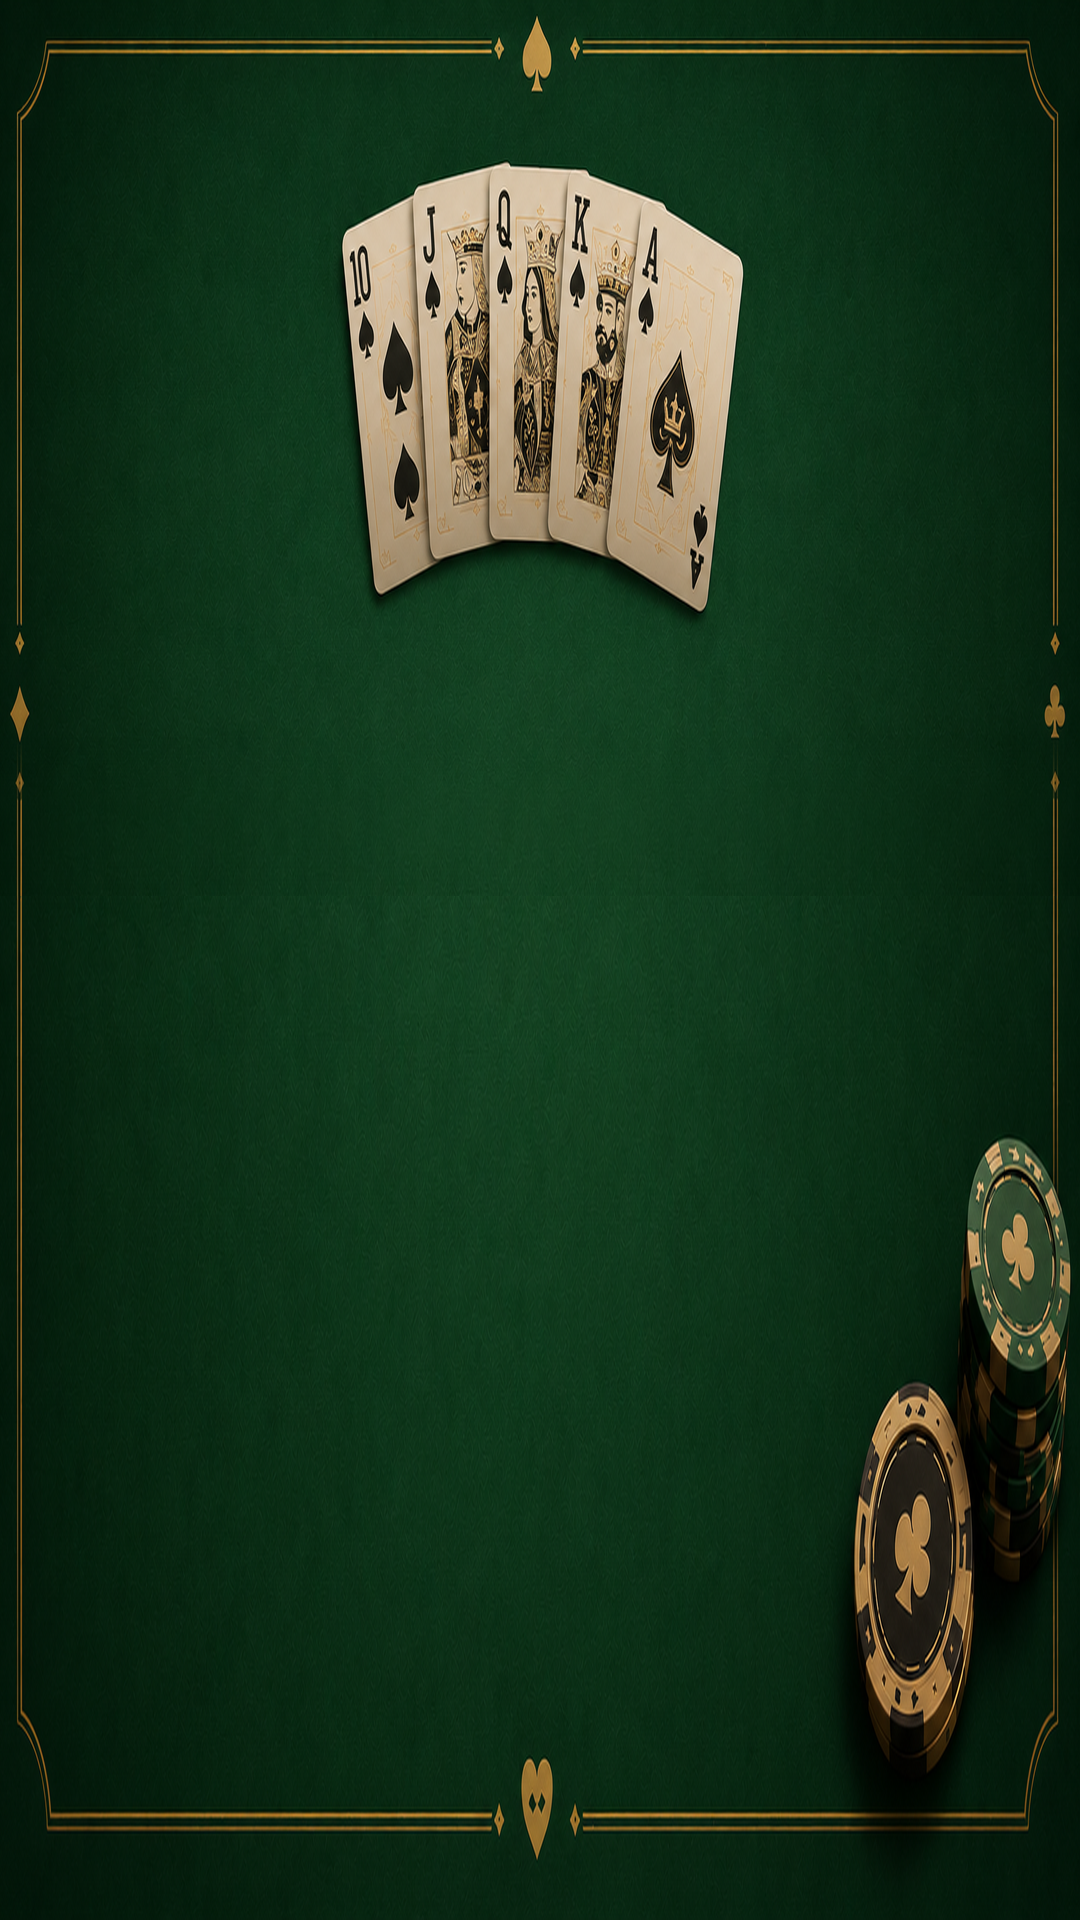
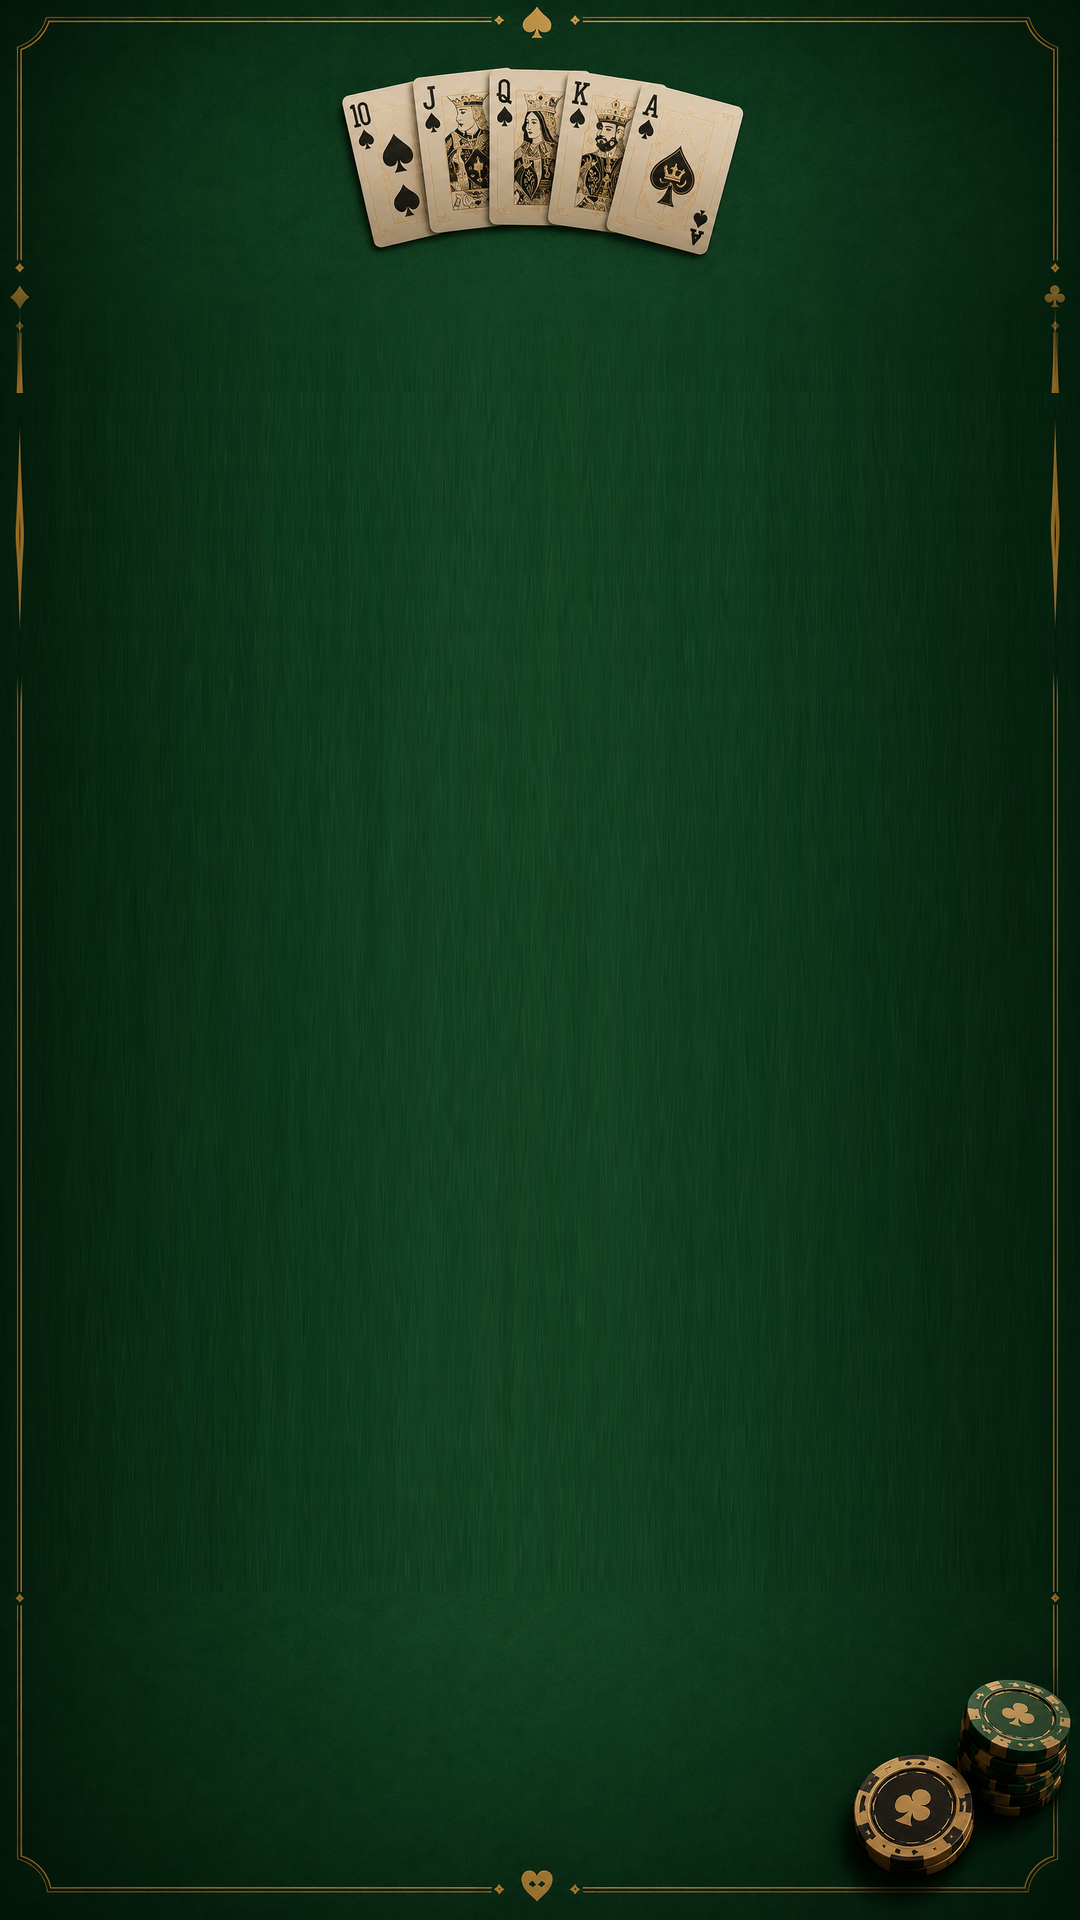
fix: organizer mobile bg v3 full-width border, remove orientation restriction
- Full-width equal-ratio scaling keeps border frame intact on both sides
- Remove orientation:portrait so landscape mobile also uses mobile image

Claude-Session: https://claude.ai/code/session_01PEjN44h7Gve3PSLEhiZJCR

diff --git a/poker/static/css/organizer/announcement.css b/poker/static/css/organizer/announcement.css
@@ -261,7 +261,7 @@ body {
 .modal-cancel-button:hover {
     background: rgba(255, 255, 255, 0.14);
 }
-@media (max-width: 768px) and (orientation: portrait) {
+@media (max-width: 768px) {
     body {
         background-image:
             linear-gradient(135deg, rgba(15,15,22,0.82), rgba(21,25,40,0.82), rgba(26,32,51,0.82)),

diff --git a/poker/static/css/organizer/dashboard.css b/poker/static/css/organizer/dashboard.css
@@ -293,7 +293,7 @@ body {
     }
 }
 
-@media (max-width: 768px) and (orientation: portrait) {
+@media (max-width: 768px) {
     body {
         background-image:
             linear-gradient(135deg, rgba(15,15,22,0.82), rgba(21,25,40,0.82), rgba(26,32,51,0.82)),

diff --git a/poker/static/css/organizer/game_log.css b/poker/static/css/organizer/game_log.css
@@ -451,7 +451,7 @@ body {
     }
 }
 
-@media (max-width: 768px) and (orientation: portrait) {
+@media (max-width: 768px) {
     body {
         background-image:
             linear-gradient(135deg, rgba(15,15,22,0.82), rgba(21,25,40,0.82), rgba(26,32,51,0.82)),

diff --git a/poker/static/css/organizer/game_management.css b/poker/static/css/organizer/game_management.css
@@ -990,7 +990,7 @@ body {
     }
 }
 
-@media (max-width: 768px) and (orientation: portrait) {
+@media (max-width: 768px) {
     body {
         background-image:
             linear-gradient(135deg, rgba(15,15,22,0.82), rgba(21,25,40,0.82), rgba(26,32,51,0.82)),

diff --git a/poker/static/css/organizer/invite_management.css b/poker/static/css/organizer/invite_management.css
@@ -219,7 +219,7 @@ body {
     }
 }
 
-@media (max-width: 768px) and (orientation: portrait) {
+@media (max-width: 768px) {
     body {
         background-image:
             linear-gradient(135deg, rgba(15,15,22,0.82), rgba(21,25,40,0.82), rgba(26,32,51,0.82)),

diff --git a/poker/static/css/user/change_password.css b/poker/static/css/user/change_password.css
@@ -156,7 +156,7 @@ body {
     }
 }
 
-@media (max-width: 768px) and (orientation: portrait) {
+@media (max-width: 768px) {
     body {
         background-image:
             linear-gradient(135deg, rgba(15,15,22,0.82), rgba(21,25,40,0.82), rgba(26,32,51,0.82)),

diff --git a/poker/static/css/user/dashboard.css b/poker/static/css/user/dashboard.css
@@ -243,7 +243,7 @@ body {
     }
 }
 
-@media (max-width: 768px) and (orientation: portrait) {
+@media (max-width: 768px) {
     body {
         background-image:
             linear-gradient(135deg, rgba(15,15,22,0.82), rgba(21,25,40,0.82), rgba(26,32,51,0.82)),

diff --git a/poker/static/css/user/game.css b/poker/static/css/user/game.css
@@ -525,7 +525,7 @@ body {
     }
 }
 
-@media (max-width: 768px) and (orientation: portrait) {
+@media (max-width: 768px) {
     body {
         background-image:
             linear-gradient(135deg, rgba(15,15,22,0.82), rgba(21,25,40,0.82), rgba(26,32,51,0.82)),

diff --git a/poker/static/css/user/game_log.css b/poker/static/css/user/game_log.css
@@ -394,7 +394,7 @@ body {
     }
 }
 
-@media (max-width: 768px) and (orientation: portrait) {
+@media (max-width: 768px) {
     body {
         background-image:
             linear-gradient(135deg, rgba(15,15,22,0.82), rgba(21,25,40,0.82), rgba(26,32,51,0.82)),

diff --git a/poker/static/css/organizer/member_management.css b/poker/static/css/organizer/member_management.css
@@ -66,7 +66,7 @@ body {
     }
 }
 
-@media (max-width: 768px) and (orientation: portrait) {
+@media (max-width: 768px) {
     body {
         background-image:
             linear-gradient(135deg, rgba(15,15,22,0.82), rgba(21,25,40,0.82), rgba(26,32,51,0.82)),

diff --git a/poker/static/css/organizer/change_password.css b/poker/static/css/organizer/change_password.css
@@ -276,7 +276,7 @@ body {
 
 }
 
-@media (max-width: 768px) and (orientation: portrait) {
+@media (max-width: 768px) {
     body {
         background-image:
             linear-gradient(135deg, rgba(15,15,22,0.82), rgba(21,25,40,0.82), rgba(26,32,51,0.82)),
